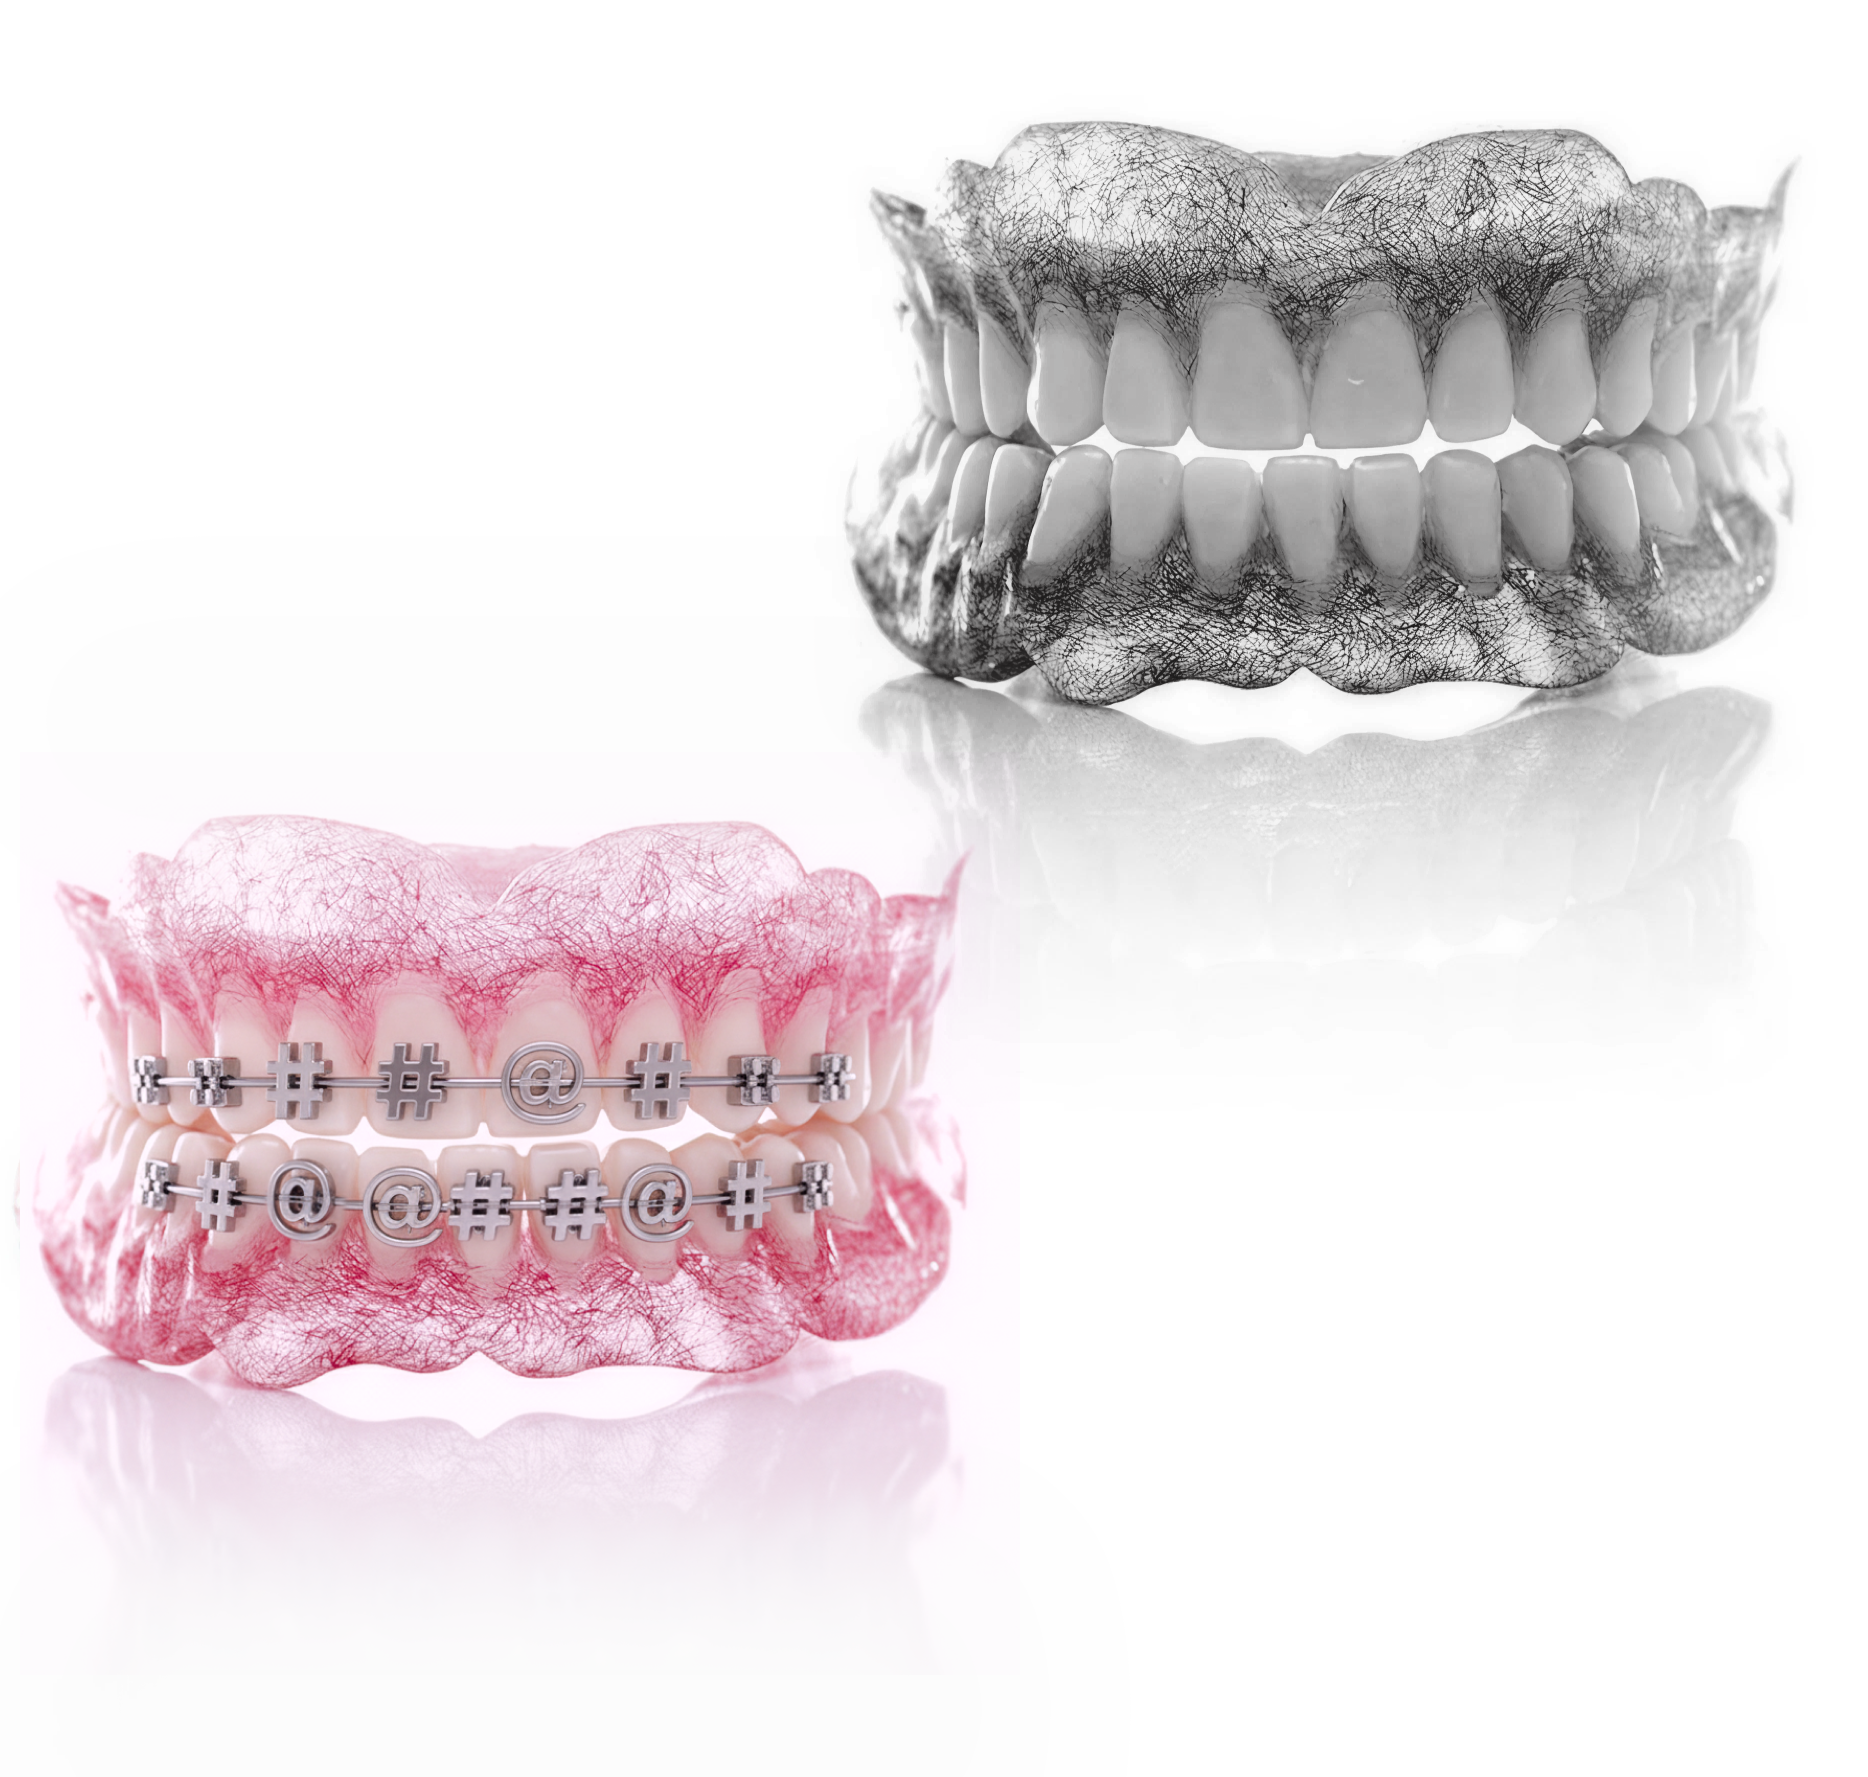
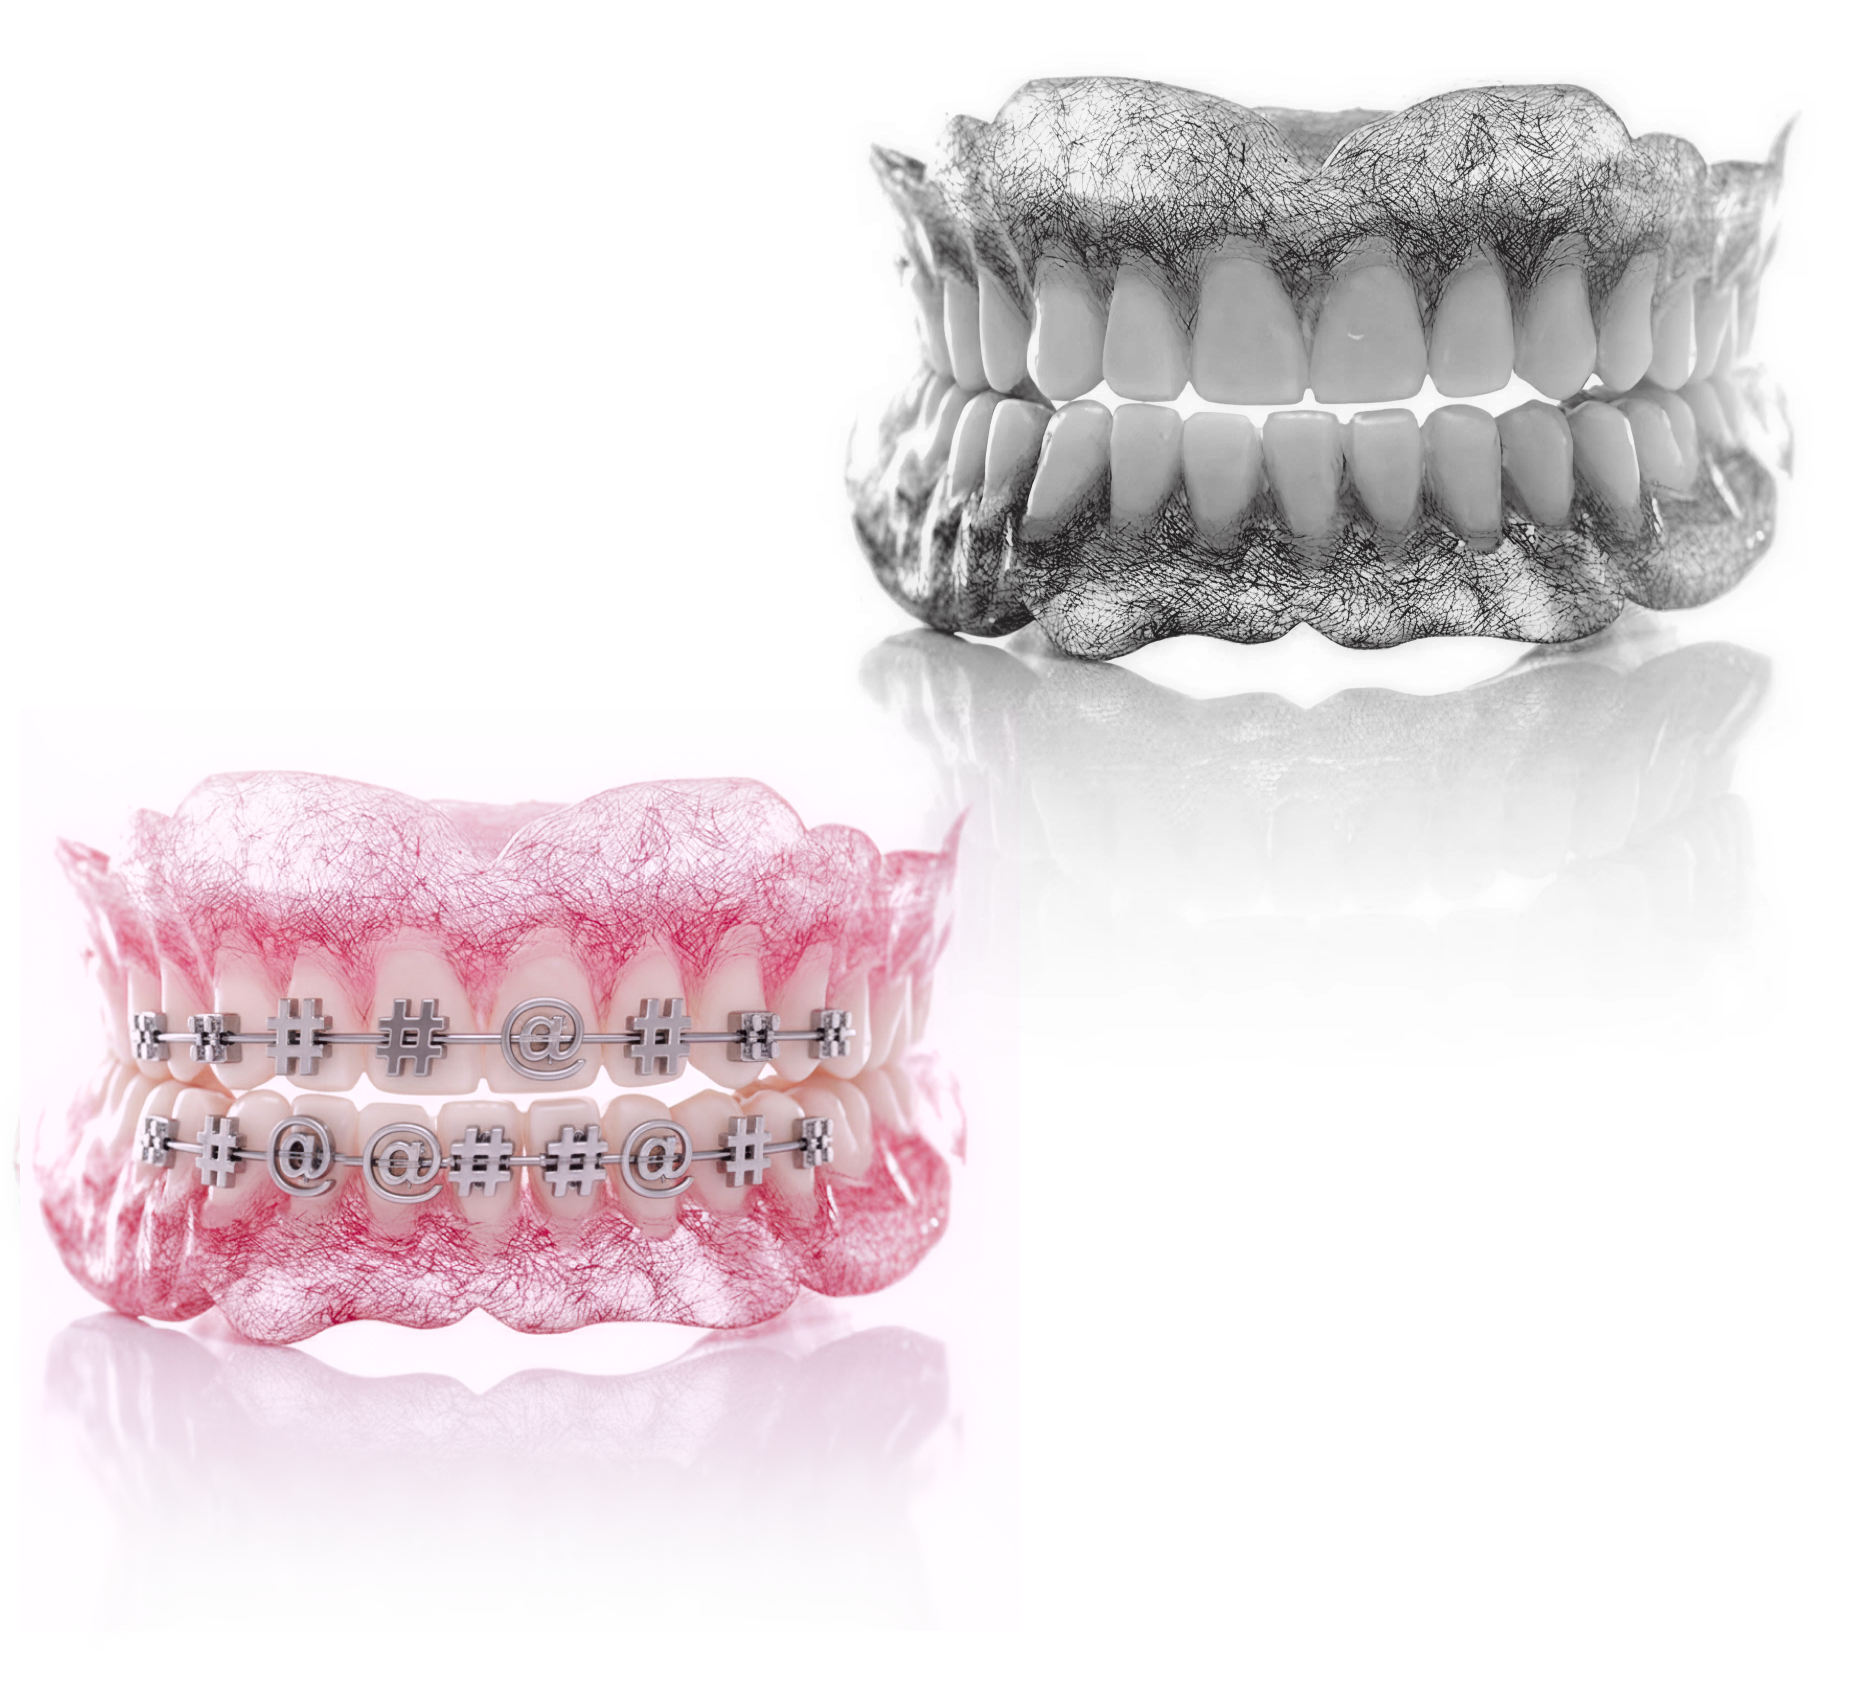
add 6, 7, 8 sections

Changed region(s): [[0.4316, 0.0307, 0.9865, 0.4295], [0.0, 0.4602, 0.5241, 0.8283]]

diff --git a/css/layout.css b/css/layout.css
@@ -32,7 +32,7 @@
     color: #E56D8F;
 }
 
-/* 3.1 контейнер для svg и букв */
+/* 3.1 контейнер для вектора и букв */
 .letter-blocks-svg-container {
     position: absolute;
     top: 138px;
@@ -43,7 +43,7 @@
     display: flex;
 }
 
-/* 3.2 svg-файл */
+/* 3.2 вектор черные блоки */
 .vector-blocks {
     width: 100%; 
     position: absolute;
@@ -52,7 +52,7 @@
     z-index: 5;
 }
 
-/* 4. буквы, расположенные поверх svg */
+/* 4. буквы поверх вектора */
 .letter-blocks-svg-container .letter {
     position: absolute;
     top: 25px;
@@ -488,4 +488,165 @@
     font-weight: 500;
     color: #130C0E;
     text-align: left;
+}
+
+
+
+
+
+/* контейнер 7-й секции */
+.weight-section {
+    position: relative;
+    height: 300px; 
+    width: 100%;
+    box-sizing: border-box;
+}
+
+/* 1. вектор розовые блоки */
+.vector-blocks.pink {
+    width: 100%; 
+    height: 100%;
+    position: absolute;
+    top: 100px;
+    left: 0;
+    z-index: 5;
+}
+
+/* 2.1 буквы поверх вектора */
+.weight-section .letter {
+    position: absolute;
+    font-family: 'Museo Sans Cyrl', sans-serif;
+    font-size: 60px;
+    color: #FFFFFF;
+    text-align: center;
+    line-height: 70px;
+    width: 10%;
+    z-index: 15;
+}
+
+/* 2.3 вертикальное позиционирование строк */
+
+.weight-line.top-line .letter {
+    top: 130px;
+}
+
+.weight-line.bottom-line .letter {
+    top: 310px;
+}
+
+.weight-line.bottom-line {
+    font-style: italic;
+}
+
+/* 2.4 стили начертаний */
+.letter-weight-900 { font-weight: 900; letter-spacing: -5px; }
+.letter-weight-700 { font-weight: 700; letter-spacing: -5px; }
+.letter-weight-500 { font-weight: 500; letter-spacing: -5px; }
+.letter-weight-300 { font-weight: 300; letter-spacing: -5px; }
+.letter-weight-100 { font-weight: 100; letter-spacing: -5px; }
+
+/* 2.5 горизонтальное позиционирование строк */
+.weight-line .letter:nth-child(1) { left: 21.3%; } /* # (700) */
+.weight-line .letter:nth-child(2) { left: 30.7%; } /* З з / Б б (900) */
+.weight-line .letter:nth-child(3) { left: 40%; } /* У у / О о (700) */
+.weight-line .letter:nth-child(4) { left: 49.4%; } /* Б б / Л л (500) */
+.weight-line .letter:nth-child(5) { left: 59%; } /* К к / Я я (300) */
+.weight-line .letter:nth-child(6) { left: 68.4%; } /* И и / Т т (100) */
+
+
+
+
+
+
+
+/* контейнер 8-й секции */
+.stats-section {
+    position: relative;
+    height: 2000px;
+    width: 100%;
+    overflow: hidden; 
+}
+
+/* 1. картинки челюстей (фон) */
+.stats-image {
+    position: absolute;
+    z-index: 1;
+}
+
+.jaws {
+    top: 200px;
+    left: -100px;
+}
+
+/* 2. общие стили для чисел */
+.stat-number {
+    display: block;
+    width: auto; 
+    max-width: 600px;
+    margin: 0 auto;
+    
+    font-family: 'Museo Sans Cyrl', sans-serif;
+    font-size: 210px;
+    font-weight: 500;
+    color: #130C0E;
+    line-height: 1;
+}
+
+/* 3. общие стили для маленьких текстов */
+.stat-label {
+    display: block;
+    margin: 0;
+    
+    font-family: 'Museo Sans Cyrl', sans-serif;
+    font-size: 30px;
+    font-weight: 700;
+    color: #130C0E;
+    
+    letter-spacing: 1.36em;
+}
+
+/* 4.1 позиционирование блоков статистики (2 & 3) */
+.stat-block {
+    position: absolute;
+    z-index: 10;
+    text-align: center;
+}
+
+/* 4.2 ## 10: сверху слева */
+.stat-block.top-right {
+    top: 270px;
+    left: 50px;
+}
+
+/* 4.3 700: центр слева */
+.stat-block.center-right {
+    top: 600px; 
+    left: 50px;
+}
+
+/* 4.3 #66: внизу справа */
+.stat-block.bottom-right {
+    top: 1250px;
+    right: 50px;
+}
+
+
+/* 5. варавнивание заголовков */
+
+/* начертаний */
+.stat-block.top-right .stat-label {
+    position: relative; 
+    left: 10px;
+}
+
+/* глифов */
+.stat-block.center-right .stat-label {
+    position: relative; 
+    left: 8px;
+}
+
+/* языков */
+.stat-block.bottom-right .stat-label {
+    position: relative; 
+    left: 20px; 
 }

diff --git a/index.html b/index.html
@@ -155,8 +155,51 @@
     </section>
 
     <!-- 7-я секция: начертания -->
+   <section class="weight-section">
+    
+        <img src="images/vector/9_3_розовые блоки.svg" alt="Розовые блоки" class="vector-blocks pink">
+        
+       <div class="weight-line top-line">
+        <span class="letter letter-weight-700">#</span>
+        <span class="letter letter-weight-900">З з</span>
+        <span class="letter letter-weight-700">У у</span>
+        <span class="letter letter-weight-500">Б б</span>
+        <span class="letter letter-weight-300">К к</span>
+        <span class="letter letter-weight-100">И и</span>
+    </div>
+    
+    <div class="weight-line bottom-line">
+        <span class="letter letter-weight-700">#</span>
+        <span class="letter letter-weight-900">Б б</span>
+        <span class="letter letter-weight-700">О о</span>
+        <span class="letter letter-weight-500">Л л</span>
+        <span class="letter letter-weight-300">Я я</span>
+        <span class="letter letter-weight-100">Т т</span>
+    </div>
+
+    </section>
 
     <!-- 8-я секция: челюсти -->
+    <section class="stats-section">
+        <img class="stats-image jaws" 
+            src="images/bitmap/9_серые + розовые челюсти.png" 
+            alt="Серая и розовая челюсти">
+
+        <div class="stat-block top-right">
+            <span class="stat-number">## 10</span>
+            <span class="stat-label label-styles">НАЧЕРТАНИЙ</span>
+        </div>
+
+        <div class="stat-block center-right">
+            <span class="stat-number">700</span>
+            <span class="stat-label label-glyphs">ГЛИФОВ</span>
+        </div>
+
+        <div class="stat-block bottom-right">
+            <span class="stat-number">#66</span>
+            <span class="stat-label label-languages">ЯЗЫКОВ</span>
+        </div>
+    </section>
 
     <!-- 9-я секция: йос -->
 
